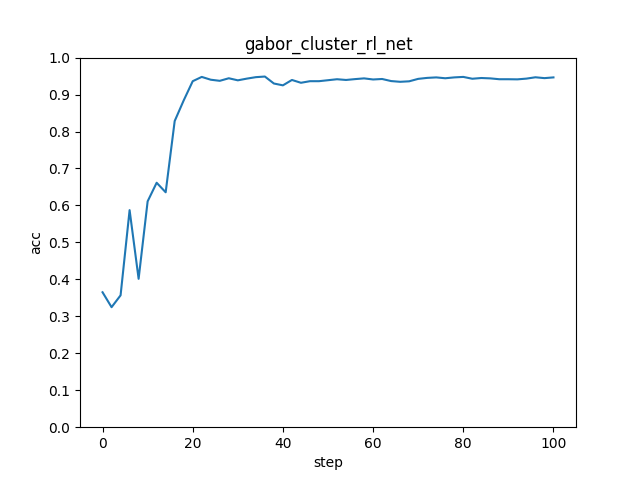
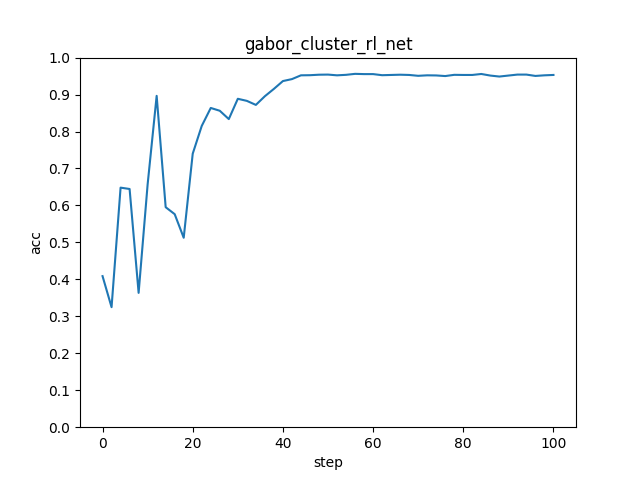
add

Changed region(s): [[0.1562, 0.1875, 0.3125, 0.6562], [0.2812, 0.125, 0.875, 0.2188], [0.3125, 0.2188, 0.375, 0.2812]]

diff --git a/experiment/trainer/cnn_cluster_diff_rl_trainer.py b/experiment/trainer/cnn_cluster_diff_rl_trainer.py
@@ -1,4 +1,4 @@
-from experiment.compare.gabor_cluster_rl.model import Net
+from experiment.compare.gabor_cluster_batch_difference_rl.model import Net
 import torch
 from util.data_util import loader, convert_label
 from torch.nn import CrossEntropyLoss
@@ -7,7 +7,7 @@ from util.test_util import run_testing
 from experiment.trainer.base_trainer import BaseTrainer
 
 
-class CnnClusterRlTrainer(BaseTrainer):
+class CnnClusterDiffRlTrainer(BaseTrainer):
     def __init__(self,
                  batch_size,
                  digits,
@@ -16,7 +16,6 @@ class CnnClusterRlTrainer(BaseTrainer):
                  n_neuron_cluster,
                  n_features_cluster_layer,
                  synaptic_th,
-                 learning_rate,
                  use_gpu,
                  early_stopping_step,
                  valid_interval_step):
@@ -26,7 +25,6 @@ class CnnClusterRlTrainer(BaseTrainer):
         self.epoch = epoch
         self.use_gpu = use_gpu
         self.n_category = len(digits)
-        self.learning_rate = learning_rate
         self.early_stopping_step = early_stopping_step
         self.valid_interval_step = valid_interval_step
         self.net = Net(n_features_cluster_layer=n_features_cluster_layer,
@@ -48,14 +46,61 @@ class CnnClusterRlTrainer(BaseTrainer):
         self.loss_all = []
         self.acc_all = []
 
+    def get_lr(self, batch_size, labels, cluster_outputs):
+        cluster_out_map = dict()
+        for lb in labels:
+            if torch.cuda.is_available() and self.use_gpu:
+                lb = int(lb.cpu().numpy())
+            else:
+                lb = int(lb.numpy())
+            cluster_out_map[lb] = {"self_percent": [],
+                                   "other_percent": [],
+                                   "cluster_out": [],
+                                   "cluster_out_sum": [],
+                                   "lr": 0,
+                                   "self_num": 0,
+                                   "other_num": 0}
+        for index in range(len(labels)):
+            lb = labels[index]
+            if torch.cuda.is_available() and self.use_gpu:
+                lb = int(lb.cpu().numpy())
+            else:
+                lb = int(lb.numpy())
+            out = cluster_outputs[index]
+            cluster_out_map[lb]["cluster_out"].append(out)
+        for lb in cluster_out_map.keys():
+            cluster_out_map[lb]["self_num"] = len(cluster_out_map[lb]["cluster_out"])
+            cluster_out_map[lb]["other_num"] = batch_size - cluster_out_map[lb]["self_num"]
+            cluster_out_map[lb]["cluster_out"] = torch.stack(cluster_out_map[lb]["cluster_out"], dim=0)
+            cluster_out_map[lb]["cluster_out_sum"] = torch.sum(cluster_out_map[lb]["cluster_out"], dim=0)
+            cluster_out_map[lb]["self_percent"] = cluster_out_map[lb]["cluster_out_sum"] / cluster_out_map[lb][
+                "self_num"]
+        for lb in cluster_out_map.keys():
+            other_out_sum_list = []
+            for other_lb in cluster_out_map.keys():
+                if other_lb != lb:
+                    other_out_sum_list.append(cluster_out_map[other_lb]["cluster_out_sum"])
+            other_out_sum = torch.sum(torch.stack(other_out_sum_list, dim=0), dim=0)
+            cluster_out_map[lb]["other_percent"] = other_out_sum / cluster_out_map[lb]["other_num"]
+            diff = cluster_out_map[lb]["self_percent"] - cluster_out_map[lb]["other_percent"]
+            cluster_out_map[lb]["lr"] = 1 / (1 + torch.exp(-diff))
+        lr_list = []
+        for lb in labels:
+            if torch.cuda.is_available() and self.use_gpu:
+                lb = int(lb.cpu().numpy())
+            else:
+                lb = int(lb.numpy())
+            lr_list.append(cluster_out_map[lb]["lr"])
+        return torch.stack(lr_list, dim=0)
+
     def update_weight(self, batch_size, b_predict, b_predict_prob, b_label, b_cluster_output):
         b_reward = torch.zeros(batch_size)
         b_reward[b_predict == b_label] = 1
+        lr = self.get_lr(batch_size, b_label, b_cluster_output)
         for i in range(batch_size):
             reward = b_reward[i]  # 奖励
             predict_prob = b_predict_prob[i]  # 预测的概率range(0,1)
             predict = b_predict[i]
-            label = b_label[i]
             cluster_output = b_cluster_output[i]
             weight = self.net.state_dict()["output.weight"]  # shape(10,n_features_cluster__layer)
             modify_weight = weight[predict, :]  # shape(n_features_cluster__layer)
@@ -66,9 +111,9 @@ class CnnClusterRlTrainer(BaseTrainer):
             # 中间层值越大改变的值越大
             potential = torch.mul(cluster_output, need_modify_weight)  # shape(n_features_cluster__layer)
             if reward:
-                modify_weight = modify_weight + self.learning_rate * (reward - predict_prob) * potential
+                modify_weight = modify_weight + lr[i] * (reward - predict_prob) * potential
             else:
-                modify_weight = modify_weight - self.learning_rate * predict_prob * potential
+                modify_weight = modify_weight - lr[i] * predict_prob * potential
             modify_weight[modify_weight < 0] = 0
             weight[predict, :] = modify_weight
 

diff --git a/experiment/trainer/cnn_cluster_avg_rl_trainer.py b/experiment/trainer/cnn_cluster_avg_rl_trainer.py
@@ -1,4 +1,4 @@
-from experiment.compare.gabor_cluster_rl.model import Net
+from experiment.compare.gabor_cluster_batch_avg_rl.model import Net
 import torch
 from util.data_util import loader, convert_label
 from torch.nn import CrossEntropyLoss
@@ -7,7 +7,7 @@ from util.test_util import run_testing
 from experiment.trainer.base_trainer import BaseTrainer
 
 
-class CnnClusterRlTrainer(BaseTrainer):
+class CnnClusterAvgRlTrainer(BaseTrainer):
     def __init__(self,
                  batch_size,
                  digits,
@@ -16,7 +16,6 @@ class CnnClusterRlTrainer(BaseTrainer):
                  n_neuron_cluster,
                  n_features_cluster_layer,
                  synaptic_th,
-                 learning_rate,
                  use_gpu,
                  early_stopping_step,
                  valid_interval_step):
@@ -26,7 +25,6 @@ class CnnClusterRlTrainer(BaseTrainer):
         self.epoch = epoch
         self.use_gpu = use_gpu
         self.n_category = len(digits)
-        self.learning_rate = learning_rate
         self.early_stopping_step = early_stopping_step
         self.valid_interval_step = valid_interval_step
         self.net = Net(n_features_cluster_layer=n_features_cluster_layer,
@@ -48,14 +46,39 @@ class CnnClusterRlTrainer(BaseTrainer):
         self.loss_all = []
         self.acc_all = []
 
+    def get_lr(self, b_label, b_cluster_output):
+        lr_map = dict()
+        for i in range(len(b_label)):
+            label = b_label[i]
+            if torch.cuda.is_available() and self.use_gpu:
+                label = int(label.cpu().numpy())
+            else:
+                label = int(label.numpy())
+            cluster_output = b_cluster_output[i]
+            if label in lr_map.keys():
+                lr_map[label].append(cluster_output)
+            else:
+                lr_map[label] = [cluster_output]
+        for label in lr_map.keys():
+            lr_map[label] = torch.mean(torch.stack(lr_map[label], dim=0), dim=0)
+        lr_list = []
+        for label in b_label:
+            if torch.cuda.is_available() and self.use_gpu:
+                label = int(label.cpu().numpy())
+            else:
+                label = int(label.numpy())
+            lr_list.append(lr_map[label])
+        lr = torch.stack(lr_list, dim=0)
+        return lr
+
     def update_weight(self, batch_size, b_predict, b_predict_prob, b_label, b_cluster_output):
         b_reward = torch.zeros(batch_size)
         b_reward[b_predict == b_label] = 1
+        lr = self.get_lr(b_label, b_cluster_output)
         for i in range(batch_size):
             reward = b_reward[i]  # 奖励
             predict_prob = b_predict_prob[i]  # 预测的概率range(0,1)
             predict = b_predict[i]
-            label = b_label[i]
             cluster_output = b_cluster_output[i]
             weight = self.net.state_dict()["output.weight"]  # shape(10,n_features_cluster__layer)
             modify_weight = weight[predict, :]  # shape(n_features_cluster__layer)
@@ -66,9 +89,9 @@ class CnnClusterRlTrainer(BaseTrainer):
             # 中间层值越大改变的值越大
             potential = torch.mul(cluster_output, need_modify_weight)  # shape(n_features_cluster__layer)
             if reward:
-                modify_weight = modify_weight + self.learning_rate * (reward - predict_prob) * potential
+                modify_weight = modify_weight + lr[i] * (reward - predict_prob) * potential
             else:
-                modify_weight = modify_weight - self.learning_rate * predict_prob * potential
+                modify_weight = modify_weight - lr[i] * predict_prob * potential
             modify_weight[modify_weight < 0] = 0
             weight[predict, :] = modify_weight
 

diff --git a/experiment/plot/main.py b/experiment/plot/main.py
@@ -1,6 +1,8 @@
 from experiment.trainer.cnn_bp_trainer import CnnBpTrainer
 from experiment.trainer.cnn_cluster_bp_trainer import CnnClusterBpTrainer
 from experiment.trainer.cnn_cluster_rl_trainer import CnnClusterRlTrainer
+from experiment.trainer.cnn_cluster_avg_rl_trainer import CnnClusterAvgRlTrainer
+from experiment.trainer.cnn_cluster_diff_rl_trainer import CnnClusterDiffRlTrainer
 import numpy as np
 
 batch_size = 40
@@ -40,6 +42,28 @@ cnn_cluster_rl_trainer = CnnClusterRlTrainer(batch_size,
                                              use_gpu,
                                              early_stopping_step,
                                              valid_interval_step)
+cnn_cluster_avg_rl_trainer = CnnClusterAvgRlTrainer(batch_size,
+                                                    digits,
+                                                    epoch,
+                                                    cluster_layer_weight_density,
+                                                    n_neuron_cluster,
+                                                    n_features_cluster_layer,
+                                                    synaptic_th,
+                                                    use_gpu,
+                                                    early_stopping_step,
+                                                    valid_interval_step)
+cnn_cluster_diff_rl_trainer = CnnClusterDiffRlTrainer(batch_size,
+                                                      digits,
+                                                      epoch,
+                                                      cluster_layer_weight_density,
+                                                      n_neuron_cluster,
+                                                      n_features_cluster_layer,
+                                                      synaptic_th,
+                                                      use_gpu,
+                                                      early_stopping_step,
+                                                      valid_interval_step)
 cnn_bp_trainer.run_training()
-cnn_cluster_bp_trainer.run_training()
-cnn_cluster_rl_trainer.run_training()
+# cnn_cluster_bp_trainer.run_training()
+# cnn_cluster_rl_trainer.run_training()
+# cnn_cluster_avg_rl_trainer.run_training()
+# cnn_cluster_diff_rl_trainer.run_training()
